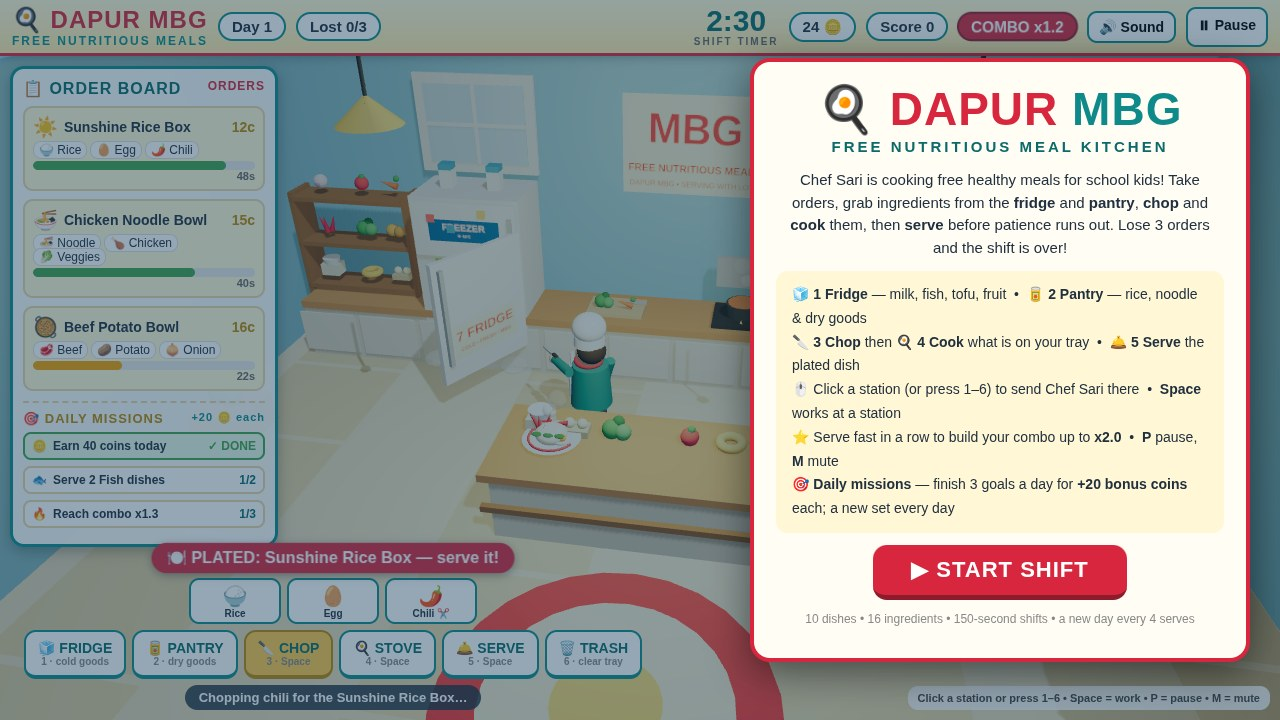
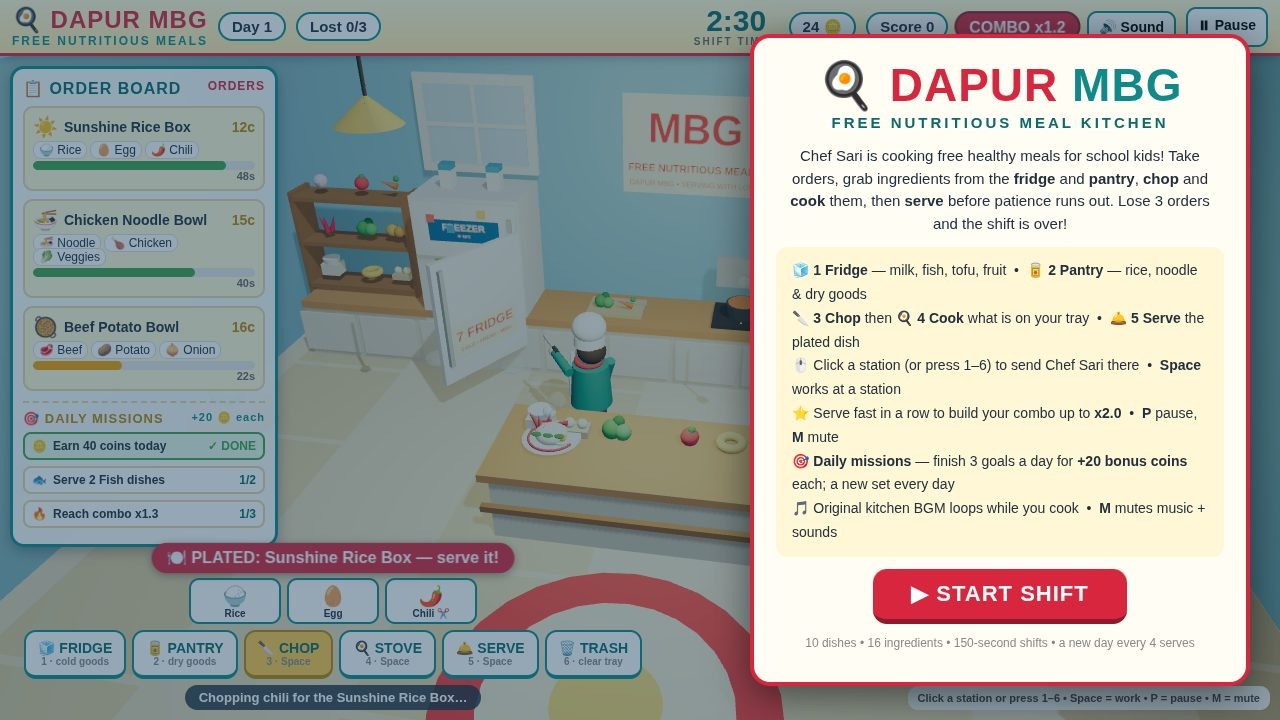
Add BGM: original cheerful kitchen loop, SFX kept

Changed region(s): [[0.5625, 0.0, 1.0, 1.0], [0.4062, 0.4889, 0.4375, 0.5194]]

diff --git a/game/src/audio.js b/game/src/audio.js
@@ -11,7 +11,12 @@ export function ensureAudio() {
 }
 
 export function isMuted() { return muted; }
-export function toggleMute() { muted = !muted; return muted; }
+export function toggleMute() {
+  muted = !muted;
+  // silence the BGM instantly too (already-scheduled notes die with the gain)
+  if (musicGain) musicGain.gain.value = muted ? 0 : 1;
+  return muted;
+}
 
 function tone(freq, dur, type, vol, when = 0, slideTo = 0) {
   if (muted) return;
@@ -64,3 +69,138 @@ export function playTick()   { tone(1200, 0.04, 'square', 0.06); }
 export function playStart()  { [523, 659, 784, 1047].forEach((f, i) => tone(f, 0.14, 'triangle', 0.15, i * 0.09)); }
 export function playWin()    { [523, 659, 784, 1047, 1319].forEach((f, i) => tone(f, 0.2, 'triangle', 0.16, i * 0.11)); }
 export function playFridge() { noise(0.35, 0.1, 0, 800); tone(300, 0.2, 'sine', 0.06, 0, 520); }
+
+// ---------- BGM: an original cheerful kitchen loop (WebAudio only) ----------
+// C major, 120 BPM, 8 bars = 16 s loop. Eighth-note melody (triangle) +
+// quarter-note bass (sine) + a soft offbeat hat. Volume stays low so the
+// SFX (0.1–0.25) always sit clearly on top. No audio files, no network.
+const NOTE = {
+  C3: 130.81, D3: 146.83, E3: 164.81, F3: 174.61, G3: 196.00, A3: 220.00,
+  C4: 261.63, D4: 293.66, E4: 329.63, F4: 349.23, G4: 392.00, A4: 440.00,
+  C5: 523.25, D5: 587.33, E5: 659.25, F5: 698.46, G5: 783.99, A5: 880.00,
+  C6: 1046.50,
+};
+const MUSIC_BPM = 120;
+const MUSIC_STEP = 60 / MUSIC_BPM / 2; // one eighth note = 0.25 s
+// 64 eighth notes = 8 bars. Original bouncy tune, chords C – F – G – C.
+const MUSIC_MELODY = [
+  'C5','E5','G5','E5','A5','G5','E5','C5', // bar 1 (C)
+  'D5','F5','A5','F5','G5','E5','C5','E5', // bar 2 (F)
+  'F5','A5','C6','A5','G5','E5','D5','E5', // bar 3 (G)
+  'C5','E5','G5','E5','D5','C5','D5','E5', // bar 4 (C)
+  'F5','E5','D5','C5','D5','E5','F5','G5', // bar 5 (F)
+  'A5','G5','F5','E5','D5','F5','A5','G5', // bar 6 (C)
+  'E5','G5','C6','G5','A5','G5','F5','E5', // bar 7 (G)
+  'D5','E5','F5','D5','C5','G4','E4','C4', // bar 8 (C, closing run down)
+];
+// 32 quarter notes = one bass note per half bar, root-root-fifth-root.
+const MUSIC_BASS = [
+  'C3','C3','G3','C3', 'F3','F3','C4','F3',
+  'G3','G3','D4','G3', 'C3','C3','G3','C3',
+  'F3','F3','C4','F3', 'C3','C3','G3','C3',
+  'G3','G3','D4','G3', 'C3','G3','C3','C3',
+];
+const MUSIC_LEN = MUSIC_MELODY.length; // 64 steps per loop
+
+let musicGain = null;   // dedicated BGM bus so mute silences it instantly
+let musicTimer = null;  // lookahead scheduler interval
+let musicNextTime = 0;  // AudioContext time of the next step to schedule
+let musicStep = 0;      // current step inside the 64-step loop
+let musicPlaying = false;
+let musicPaused = false;
+let musicNotes = 0;     // notes scheduled so far (debug / playtest proof)
+
+function musicNote(freq, t0, dur, type, vol) {
+  if (!ctx || !musicGain) return;
+  const osc = ctx.createOscillator();
+  const gain = ctx.createGain();
+  osc.type = type;
+  osc.frequency.setValueAtTime(freq, t0);
+  gain.gain.setValueAtTime(0.0001, t0);
+  gain.gain.exponentialRampToValueAtTime(vol, t0 + 0.02);
+  gain.gain.exponentialRampToValueAtTime(0.0001, t0 + dur);
+  osc.connect(gain).connect(musicGain);
+  osc.start(t0);
+  osc.stop(t0 + dur + 0.05);
+}
+
+function musicHat(t0) {
+  if (!ctx || !musicGain) return;
+  const len = Math.max(1, Math.floor(ctx.sampleRate * 0.03));
+  const buf = ctx.createBuffer(1, len, ctx.sampleRate);
+  const data = buf.getChannelData(0);
+  for (let i = 0; i < len; i++) data[i] = (Math.random() * 2 - 1) * (1 - i / len);
+  const src = ctx.createBufferSource();
+  src.buffer = buf;
+  const filter = ctx.createBiquadFilter();
+  filter.type = 'highpass'; filter.frequency.value = 7000;
+  const gain = ctx.createGain();
+  gain.gain.setValueAtTime(0.02, t0);
+  gain.gain.exponentialRampToValueAtTime(0.0001, t0 + 0.03);
+  src.connect(filter).connect(gain).connect(musicGain);
+  src.start(t0);
+}
+
+// Lookahead scheduler: every 25 ms, schedule every step starting within
+// the next 0.15 s. While muted the loop still advances in time (silently),
+// so unmuting lands back in the groove instead of replaying the bar.
+function scheduleMusic() {
+  const ac = ctx;
+  if (!ac || !musicPlaying || musicPaused) return;
+  if (musicNextTime < ac.currentTime) musicNextTime = ac.currentTime + 0.05; // never burst-schedule after a stall
+  while (musicNextTime < ac.currentTime + 0.15) {
+    if (!muted) {
+      const m = MUSIC_MELODY[musicStep];
+      if (m) { musicNote(NOTE[m], musicNextTime, 0.22, 'triangle', 0.07); musicNotes++; }
+      if (musicStep % 2 === 0) {
+        const b = MUSIC_BASS[musicStep / 2];
+        if (b) { musicNote(NOTE[b], musicNextTime, 0.42, 'sine', 0.055); musicNotes++; }
+      }
+      if (musicStep % 2 === 1) { musicHat(musicNextTime); musicNotes++; }
+    }
+    musicStep = (musicStep + 1) % MUSIC_LEN;
+    musicNextTime += MUSIC_STEP;
+  }
+}
+
+export function startMusic() {
+  const ac = ensureAudio();
+  if (!ac || musicPlaying) return false;
+  if (!musicGain) {
+    musicGain = ac.createGain();
+    musicGain.gain.value = muted ? 0 : 1;
+    musicGain.connect(ac.destination);
+  }
+  musicPlaying = true; musicPaused = false;
+  musicStep = 0; musicNotes = 0;
+  musicNextTime = ac.currentTime + 0.08;
+  musicTimer = setInterval(scheduleMusic, 25);
+  return true;
+}
+
+export function stopMusic() {
+  if (musicTimer) { clearInterval(musicTimer); musicTimer = null; }
+  musicPlaying = false; musicPaused = false;
+}
+
+export function pauseMusic() {
+  if (!musicPlaying) return;
+  musicPaused = true;
+}
+
+export function resumeMusic() {
+  if (!musicPlaying) return;
+  musicPaused = false;
+  if (ctx) musicNextTime = ctx.currentTime + 0.08; // resume clean, no catch-up burst
+}
+
+export function musicStats() {
+  return {
+    playing: musicPlaying,
+    paused: musicPaused,
+    muted,
+    notes: musicNotes,
+    step: musicStep,
+    ctxState: ctx ? ctx.state : 'none',
+  };
+}

diff --git a/game/src/game.js b/game/src/game.js
@@ -353,7 +353,7 @@ function setHint(t) { $('hint').textContent = t; }
 
 // ---------- game flow ----------
 function startGame() {
-  SFX.ensureAudio(); SFX.playStart();
+  SFX.ensureAudio(); SFX.playStart(); SFX.startMusic();
   orderMgr.start();
   missionMgr.start(1);
   tray = []; clearPlate(); refreshTrayProps();
@@ -371,6 +371,7 @@ function startGame() {
 
 function endGame(finished, reason) {
   state = 'over';
+  SFX.stopMusic();
   SFX.playWin();
   const st = orderMgr.state();
   $('final-reason').textContent = reason;
@@ -380,8 +381,8 @@ function endGame(finished, reason) {
 }
 
 function togglePause() {
-  if (state === 'playing') { state = 'paused'; $('pause-screen').classList.remove('hidden'); }
-  else if (state === 'paused') { state = 'playing'; $('pause-screen').classList.add('hidden'); }
+  if (state === 'playing') { state = 'paused'; SFX.pauseMusic(); $('pause-screen').classList.remove('hidden'); }
+  else if (state === 'paused') { state = 'playing'; SFX.resumeMusic(); $('pause-screen').classList.add('hidden'); }
 }
 
 // ---------- UI ----------
@@ -554,6 +555,7 @@ window.__mbg = {
   tray: () => tray.map((t) => t.id),
   plated: () => (plated ? plated.id : null),
   missions: () => missionMgr.state(),
+  music: () => SFX.musicStats(),
 };
 
 init();

diff --git a/game/index.html b/game/index.html
@@ -171,7 +171,8 @@
       🔪 <b>3 Chop</b> then 🍳 <b>4 Cook</b> what is on your tray &nbsp;•&nbsp; 🛎 <b>5 Serve</b> the plated dish<br>
       🖱 Click a station (or press 1–6) to send Chef Sari there &nbsp;•&nbsp; <b>Space</b> works at a station<br>
       ⭐ Serve fast in a row to build your combo up to <b>x2.0</b> &nbsp;•&nbsp; <b>P</b> pause, <b>M</b> mute<br>
-      🎯 <b>Daily missions</b> — finish 3 goals a day for <b>+20 bonus coins</b> each; a new set every day
+      🎯 <b>Daily missions</b> — finish 3 goals a day for <b>+20 bonus coins</b> each; a new set every day<br>
+      🎵 Original kitchen BGM loops while you cook &nbsp;•&nbsp; <b>M</b> mutes music + sounds
     </div>
     <button class="big-btn" id="start-btn">▶ START SHIFT</button>
     <p style="margin-top:10px; font-size:12px; color:#888;">10 dishes • 16 ingredients • 150-second shifts • a new day every 4 serves</p>
